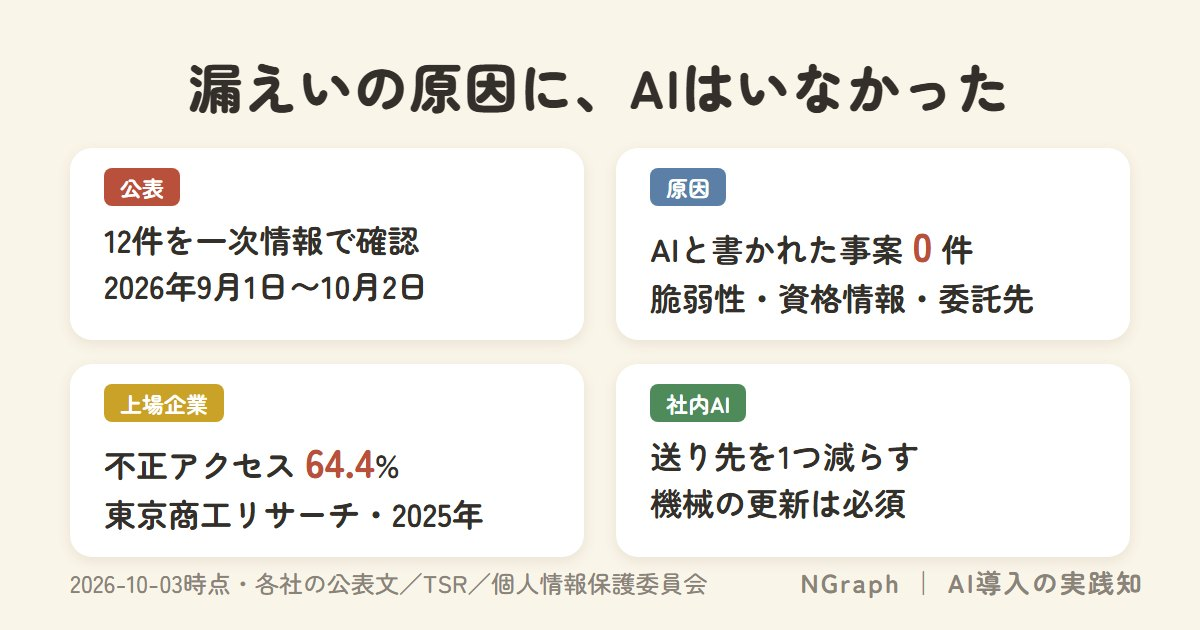
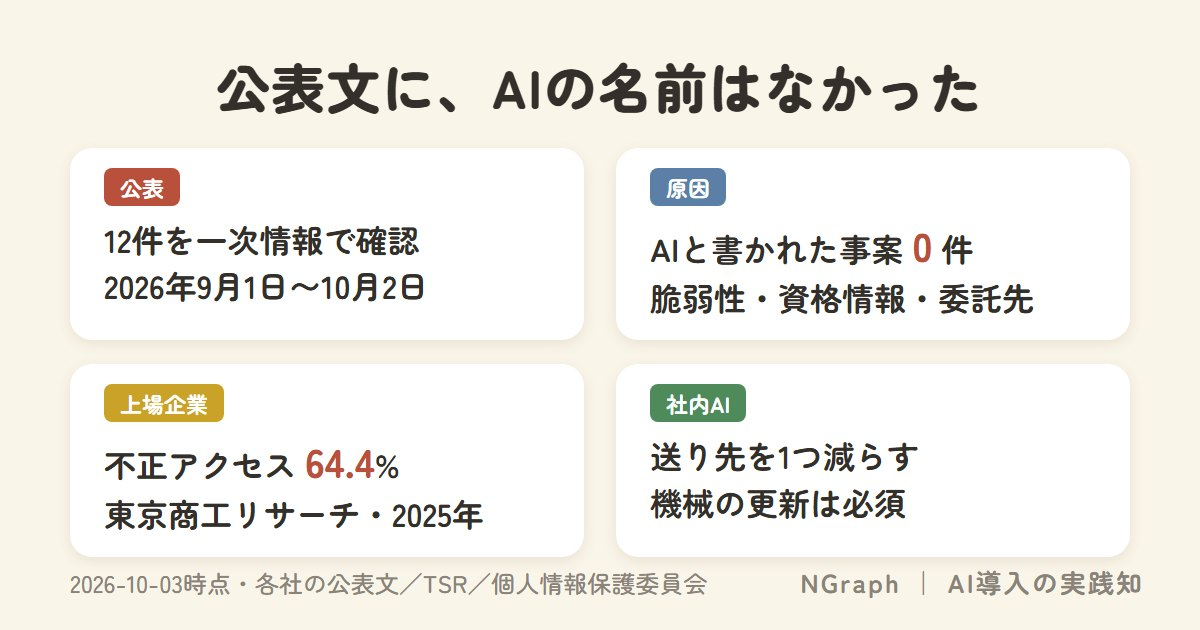
blog: 20261003-joho-roei-local-llm 最終検収（表紙の主張を本文の立場に合わせ「公表文に、AIの名前はなかった」へ／冒頭の原因の列挙に限定を付けた／構築の項目を全部と読める書き方を修正）

Changed region(s): [[0.1542, 0.0905, 0.8325, 0.181]]

diff --git a/blog/20261003-joho-roei-local-llm.html b/blog/20261003-joho-roei-local-llm.html
@@ -138,7 +138,7 @@
   <span class="a-date">2026.10.03 夜 ｜ 株式会社NGraph</span>
   <img class="a-eyecatch" src="/assets/blog/20261003-joho-roei-local-llm.jpg" alt="漏えいの原因に、AIはいなかった。2026年9月1日〜10月2日の公表12件を確認、AIと書かれた事案は0件、原因は脆弱性・資格情報・委託先、上場企業は不正アクセス64.4%、社内AIは送り先を1つ減らす">
 
-<p>2026年9月1日から10月2日に情報漏えいや不正アクセスを公表した12件の公表文を開いて、原因を確かめました。AIや生成AIが原因や経路として書かれた事案は、12件のうち1件もありません。書かれていたのは、システムの弱点である脆弱性を突かれたこと、IDやパスワードの不正利用、委託先で起きたことでした。</p>
+<p>2026年9月1日から10月2日に情報漏えいや不正アクセスを公表した12件の公表文を開いて、原因を確かめました。AIや生成AIが原因や経路として書かれた事案は、12件のうち1件もありません。原因が書かれていた事案で挙がっていたのは、システムの弱点である脆弱性を突かれたこと、IDやパスワードの不正利用、委託先で起きたことでした。</p>
 <p>それでも、会社の情報をAIに入れ始めると、情報の送り先は1つ増えます。この記事は、その送り先と、社内に置くAIの効果の範囲を整理しました。社内に置くAIは、会社の中の機械だけで動くAIで、ローカルLLMと呼ばれます。当社は社内に置くAIを販売している立場なので、その点を差し引いて読んでください。</p>
 <div class="a-toc"><strong>この記事でわかること</strong><br>
 ・12件の公表文にAIの記載がなく、原因は脆弱性・資格情報・委託先に分かれること<br>
@@ -215,7 +215,7 @@
 <tr><td>増える</td><td>機械の更新</td><td>OSとモデルの更新が必要。しなければ入口になりうる</td></tr>
 </table></div>
 <p class="a-fig-cap">表3　右列は当社の整理です。</p>
-<p>LEAN BODYの件は、社内のツールの更新が行き届かなかった可能性が高い、という話でした。社内に置いた機械も、更新しなければ入口になりえます。そのためセキュリティPackは保守を必須にし、OSとモデルの更新と故障時の手配を含めています。構築の内容は、外とつながない設定と、ログインと操作の記録です。ただし、これは出口と仕事の整理で、漏えいが起きない保証ではありません。料金は<a href="/security/" style="color:var(--accent);border-bottom:1px solid var(--accent)">セキュリティPackのページ</a>で公開中です。</p>
+<p>LEAN BODYの件は、社内のツールの更新が行き届かなかった可能性が高い、という話でした。社内に置いた機械も、更新しなければ入口になりえます。そのためセキュリティPackは保守を必須にし、OSとモデルの更新と故障時の手配を含めています。構築には、外とつながない設定と、ログインと操作の記録を含めています。ただし、これは出口と仕事の整理で、漏えいが起きない保証ではありません。料金は<a href="/security/" style="color:var(--accent);border-bottom:1px solid var(--accent)">セキュリティPackのページ</a>で公開中です。</p>
 <div class="a-note"><strong>私たちの一次体験：</strong>当社は新人の入社手続きをAIで案内する仕組みを作ったとき、AIに読ませる情報と読ませない情報を、最初に分けました。口座番号や住所などは本部の担当者だけが読める欄に分け、一定期間で自動的に消える設計にしています。「消えるはず」を相手の運用に任せず、消える仕組みを自分たちの側に持つ、という判断でした。吉野家の「消えると思っていた」の、逆の置き方です。</div>
 
 <h2>先に決める3つと、よくある失敗</h2>
